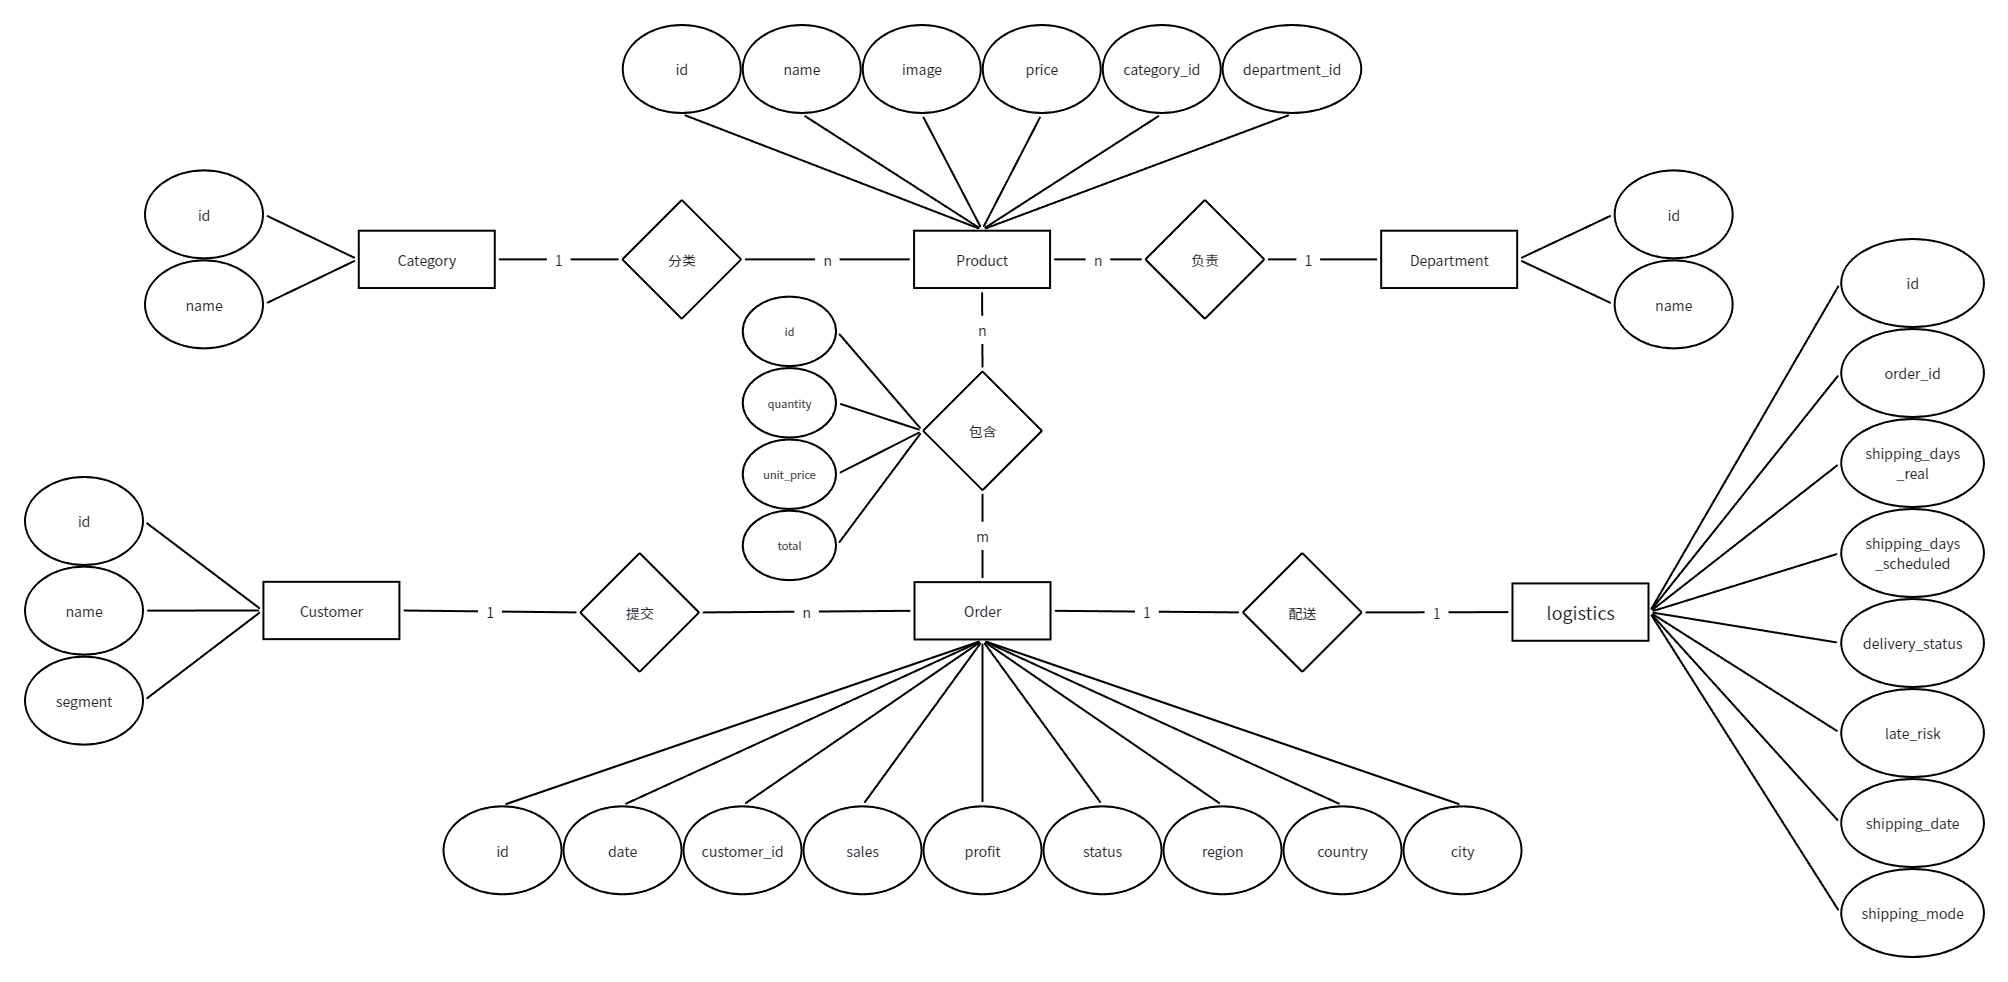
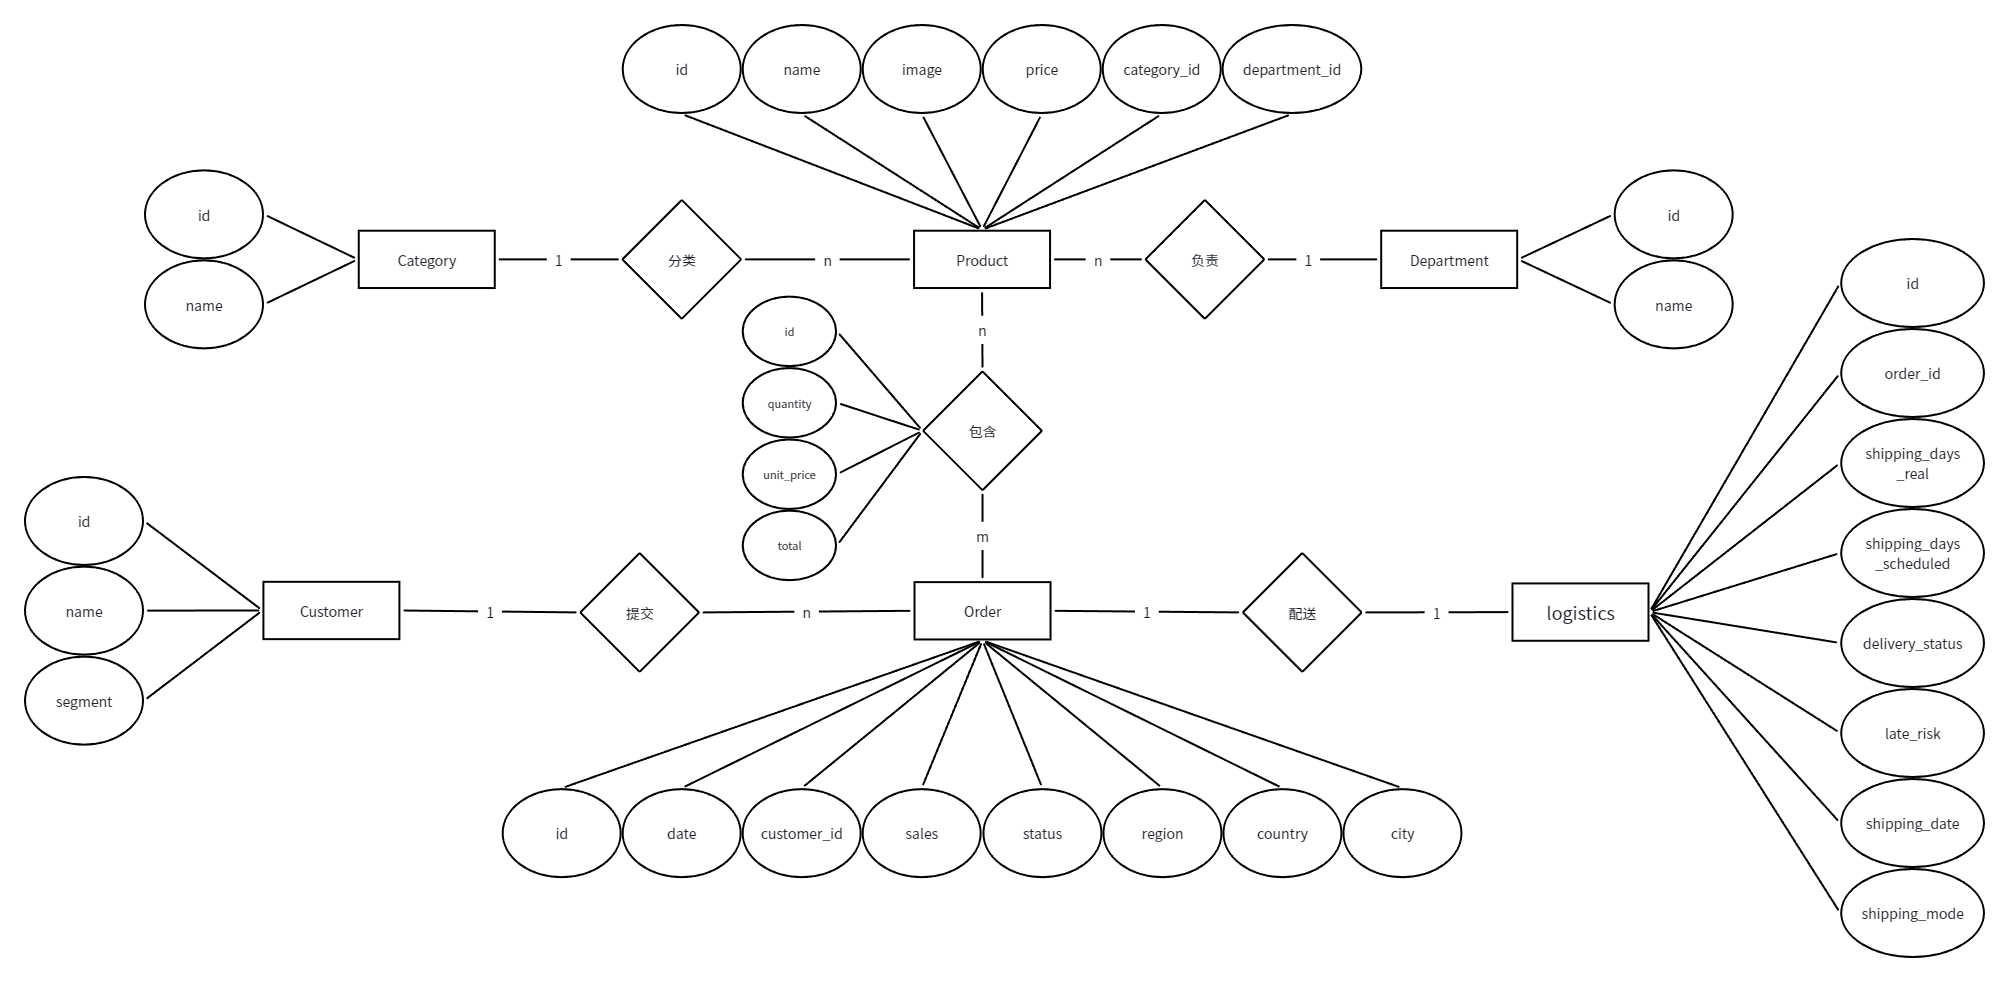
javaBackend logistics module

Changed region(s): [[0.247, 0.6415, 0.741, 0.9165]]

diff --git a/javabackend/supply_chain/src/main/java/com/supply_chain/controller/LogisticsController.java b/javabackend/supply_chain/src/main/java/com/supply_chain/controller/LogisticsController.java
@@ -4,29 +4,46 @@ import com.supply_chain.pojo.Logistics;
 import com.supply_chain.pojo.PageBean;
 import com.supply_chain.pojo.Result;
 import com.supply_chain.service.LogisticsService;
-import org.springframework.beans.factory.annotation.Autowired;
+import lombok.RequiredArgsConstructor;
 import org.springframework.web.bind.annotation.*;
 
 import java.time.LocalDate;
 
 @RestController
 @RequestMapping("/api/logistics")
+@RequiredArgsConstructor
 public class LogisticsController {
-    @Autowired
-    private LogisticsService logisticsService;
+    private final LogisticsService logisticsService;
+
     @GetMapping
-    Result getLogistics(@RequestParam(defaultValue = "1")Integer page, @RequestParam(defaultValue = "10")Integer pageSize, Integer daysRealMin, Integer daysRealMax, Integer daysScheduledMin, Integer daysScheduledMax, String deliveryStatus, Short lateRisk, LocalDate shippingDateBegin, LocalDate shippingDateEnd, String shippingMode, Integer orderId){
-        PageBean pageBean = logisticsService.getLogistics(page, pageSize, daysRealMin, daysRealMax, daysScheduledMin, daysScheduledMax, deliveryStatus, lateRisk, shippingDateBegin, shippingDateEnd, shippingMode, orderId);
+    Result getLogistics(
+            @RequestParam(defaultValue = "1") Integer page, @RequestParam(defaultValue = "10") Integer pageSize,
+            Integer daysRealMin, Integer daysRealMax, Integer daysScheduledMin, Integer daysScheduledMax,
+            String deliveryStatus, Short lateRisk, LocalDate shippingDateBegin, LocalDate shippingDateEnd,
+            String shippingMode, Integer orderId
+    ) {
+        PageBean pageBean = logisticsService.getLogistics(
+                page, pageSize, daysRealMin, daysRealMax, daysScheduledMin, daysScheduledMax, deliveryStatus, lateRisk,
+                shippingDateBegin, shippingDateEnd, shippingMode, orderId
+        );
         return Result.success(pageBean);
     }
+
     @GetMapping("/{id}")
-    Result getByOrderId(@PathVariable Integer id){
+    Result getByOrderId(@PathVariable Integer id) {
         Logistics logistics = logisticsService.getByOrderId(id);
         return Result.success(logistics);
     }
+
     @DeleteMapping("/{ids}")
-    Result delByOrder(@PathVariable Integer[] ids){
+    Result delByOrder(@PathVariable Integer[] ids) {
         logisticsService.delByOrderId(ids);
+        return Result.success();
+    }
+
+    @PutMapping
+    Result update(@RequestBody Logistics logistics) {
+        logisticsService.update(logistics);
         return Result.success();
     }
 }

diff --git a/javabackend/supply_chain/src/main/java/com/supply_chain/service/imp/LogisticsServiceImp.java b/javabackend/supply_chain/src/main/java/com/supply_chain/service/imp/LogisticsServiceImp.java
@@ -6,21 +6,28 @@ import com.supply_chain.mapper.LogisticsMapper;
 import com.supply_chain.pojo.Logistics;
 import com.supply_chain.pojo.PageBean;
 import com.supply_chain.service.LogisticsService;
-import org.springframework.beans.factory.annotation.Autowired;
+import lombok.RequiredArgsConstructor;
 import org.springframework.stereotype.Service;
 
 import java.time.LocalDate;
 import java.util.List;
 
 @Service
+@RequiredArgsConstructor
 public class LogisticsServiceImp implements LogisticsService {
-    @Autowired
-    private LogisticsMapper logisticsMapper;
+    private final LogisticsMapper logisticsMapper;
 
     @Override
-    public PageBean getLogistics(Integer page, Integer pageSize, Integer daysRealMin, Integer daysRealMax, Integer daysScheduledMin, Integer daysScheduledMax, String deliveryStatus, Short lateRisk, LocalDate shippingDateBegin, LocalDate shippingDateEnd, String shippingMode, Integer orderId) {
+    public PageBean getLogistics(
+            Integer page, Integer pageSize, Integer daysRealMin, Integer daysRealMax, Integer daysScheduledMin,
+            Integer daysScheduledMax, String deliveryStatus, Short lateRisk, LocalDate shippingDateBegin,
+            LocalDate shippingDateEnd, String shippingMode, Integer orderId
+    ) {
         PageHelper.startPage(page, pageSize);
-        List<Logistics> list = logisticsMapper.getLogistics(daysRealMin, daysRealMax, daysScheduledMin, daysScheduledMax, deliveryStatus, lateRisk, shippingDateBegin, shippingDateEnd, shippingMode, orderId);
+        List<Logistics> list = logisticsMapper.getLogistics(
+                daysRealMin, daysRealMax, daysScheduledMin, daysScheduledMax, deliveryStatus, lateRisk,
+                shippingDateBegin, shippingDateEnd, shippingMode, orderId
+        );
         PageInfo<Logistics> p = new PageInfo<>(list);
         return new PageBean(p.getTotal(), p.getList());
     }
@@ -33,5 +40,10 @@ public class LogisticsServiceImp implements LogisticsService {
     @Override
     public void delByOrderId(Integer[] ids) {
         logisticsMapper.delByOrderId(ids);
+    }
+
+    @Override
+    public void update(Logistics logistics) {
+        logisticsMapper.update(logistics);
     }
 }

diff --git a/javabackend/supply_chain/src/main/java/com/supply_chain/service/LogisticsService.java b/javabackend/supply_chain/src/main/java/com/supply_chain/service/LogisticsService.java
@@ -6,11 +6,17 @@ import com.supply_chain.pojo.PageBean;
 import java.time.LocalDate;
 
 public interface LogisticsService {
-    PageBean getLogistics(Integer page,Integer pageSize, Integer daysRealMin, Integer daysRealMax,
-                          Integer daysScheduledMin, Integer daysScheduledMax,
-                          String deliveryStatus, Short lateRisk,
-                          LocalDate shippingDateBegin, LocalDate shippingDateEnd,
-                          String shippingMode, Integer orderId);
+    PageBean getLogistics(
+            Integer page, Integer pageSize, Integer daysRealMin, Integer daysRealMax,
+            Integer daysScheduledMin, Integer daysScheduledMax,
+            String deliveryStatus, Short lateRisk,
+            LocalDate shippingDateBegin, LocalDate shippingDateEnd,
+            String shippingMode, Integer orderId
+    );
+
     Logistics getByOrderId(Integer orderId);
+
     void delByOrderId(Integer[] ids);
+
+    void update(Logistics logistics);
 }

diff --git a/javabackend/supply_chain/src/main/java/com/supply_chain/service/imp/CustomerServiceImp.java b/javabackend/supply_chain/src/main/java/com/supply_chain/service/imp/CustomerServiceImp.java
@@ -7,17 +7,16 @@ import com.supply_chain.pojo.Customer;
 import com.supply_chain.pojo.PageBean;
 import com.supply_chain.service.CustomerService;
 import com.supply_chain.service.OrderService;
-import org.springframework.beans.factory.annotation.Autowired;
+import lombok.RequiredArgsConstructor;
 import org.springframework.stereotype.Service;
 
 import java.util.List;
 
 @Service
+@RequiredArgsConstructor
 public class CustomerServiceImp implements CustomerService {
-    @Autowired
-    private CustomerMapper customerMapper;
-    @Autowired
-    private OrderService orderService;
+    private final CustomerMapper customerMapper;
+    private final OrderService orderService;
 
     @Override
     public Customer selectById(Integer id) {
@@ -39,7 +38,7 @@ public class CustomerServiceImp implements CustomerService {
     }
 
     @Override
-    public Integer update(Customer customer) {
-        return customerMapper.update(customer);
+    public void update(Customer customer) {
+        customerMapper.update(customer);
     }
 }

diff --git a/javabackend/supply_chain/src/main/java/com/supply_chain/mapper/LogisticsMapper.java b/javabackend/supply_chain/src/main/java/com/supply_chain/mapper/LogisticsMapper.java
@@ -3,6 +3,7 @@ package com.supply_chain.mapper;
 import com.supply_chain.pojo.Logistics;
 import org.apache.ibatis.annotations.Mapper;
 import org.apache.ibatis.annotations.Select;
+import org.apache.ibatis.annotations.Update;
 
 import java.time.LocalDate;
 import java.util.List;
@@ -18,4 +19,15 @@ public interface LogisticsMapper {
     Logistics getByOrderId(Integer orderId);
 
     void delByOrderId(Integer[] ids);
+
+    @Update("""
+            update logistics
+            set shipping_days_real     = #{shippingDaysReal},
+                shipping_days_scheduled=#{shippingDaysScheduled},
+                shipping_date=#{shippingDate},
+                late_risk=#{lateRisk},
+                delivery_status=#{deliveryStatus},
+                shipping_mode=#{shippingMode}
+            where id=#{id};""")
+    void update(Logistics logistics);
 }

diff --git a/javabackend/supply_chain/src/main/java/com/supply_chain/service/imp/OrderServiceImp.java b/javabackend/supply_chain/src/main/java/com/supply_chain/service/imp/OrderServiceImp.java
@@ -43,23 +43,23 @@ public class OrderServiceImp implements OrderService {
     }
 
     @Override
-    public Integer deleteByCustomerId(Integer[] ids) {
+    public void deleteByCustomerId(Integer[] ids) {
         Integer[] orderId = getIdByCustomerId(ids);
         orderItemsService.delByOrderId(orderId);
         logisticsService.delByOrderId(orderId);
-        return orderMapper.deleteByCustomerId(ids);
+        orderMapper.deleteByCustomerId(ids);
     }
 
     @Override
-    public Integer deleteByOrderId(Integer[] ids) {
+    public void deleteByOrderId(Integer[] ids) {
         orderItemsService.delByOrderId(ids);
         logisticsService.delByOrderId(ids);
-        return orderMapper.deleteByOrderId(ids);
+        orderMapper.deleteByOrderId(ids);
     }
 
     @Override
-    public Integer update(Order order) {
-        return orderMapper.update(order);
+    public void update(Order order) {
+        orderMapper.update(order);
     }
 
     @Override

diff --git a/javabackend/supply_chain/src/main/java/com/supply_chain/service/imp/OrderItemsServiceImp.java b/javabackend/supply_chain/src/main/java/com/supply_chain/service/imp/OrderItemsServiceImp.java
@@ -2,15 +2,16 @@ package com.supply_chain.service.imp;
 
 import com.supply_chain.mapper.OrderItemsMapper;
 import com.supply_chain.service.OrderItemsService;
-import org.springframework.beans.factory.annotation.Autowired;
+import lombok.RequiredArgsConstructor;
 import org.springframework.stereotype.Service;
 
 @Service
+@RequiredArgsConstructor
 public class OrderItemsServiceImp implements OrderItemsService {
-    @Autowired
-    private OrderItemsMapper orderItemsMapper;
+
+    private final OrderItemsMapper orderItemsMapper;
     @Override
-    public Integer delByOrderId(Integer[] ids) {
-        return orderItemsMapper.delByOrderId(ids);
+    public void delByOrderId(Integer[] ids) {
+        orderItemsMapper.delByOrderId(ids);
     }
 }

diff --git a/javabackend/supply_chain/src/main/java/com/supply_chain/controller/CustomerController.java b/javabackend/supply_chain/src/main/java/com/supply_chain/controller/CustomerController.java
@@ -4,15 +4,15 @@ import com.supply_chain.pojo.Customer;
 import com.supply_chain.pojo.PageBean;
 import com.supply_chain.pojo.Result;
 import com.supply_chain.service.CustomerService;
-import org.springframework.beans.factory.annotation.Autowired;
+import lombok.RequiredArgsConstructor;
 import org.springframework.web.bind.annotation.*;
 
 
 @RestController
 @RequestMapping("/api/customer")
+@RequiredArgsConstructor
 public class CustomerController {
-    @Autowired
-    private CustomerService customerService;
+    private final CustomerService customerService;
 
     @GetMapping
     Result page(
@@ -20,7 +20,7 @@ public class CustomerController {
             @RequestParam(defaultValue = "10") Integer pageSize,
             String name,
             String segment
-               ) {
+    ) {
         PageBean pageBean = customerService.page(page, pageSize, name, segment);
         return Result.success(pageBean);
     }

diff --git a/javabackend/supply_chain/src/main/java/com/supply_chain/mapper/OrderMapper.java b/javabackend/supply_chain/src/main/java/com/supply_chain/mapper/OrderMapper.java
@@ -13,19 +13,19 @@ public interface OrderMapper {
     @Select("select * from `order` where id=#{id}")
     Order getOrderById(Integer id);
 
-    List<Order> getOrdersAndItems();
+    //List<Order> getOrdersAndItems();
 
     List<Order> getOrders(
             LocalDate start, LocalDate end, Integer customerId, Float salesMin, Float salesMax, String status,
             String region, String country, String city
                          );
 
-    Integer deleteByCustomerId(Integer[] ids);
+    void deleteByCustomerId(Integer[] ids);
 
     @Update("update `order` set date = #{date},sales=#{sales},status=#{status}," +
             "region=#{region},country=#{country},city=#{city} where id = #{id};")
-    Integer update(Order order);
-    Integer deleteByOrderId(Integer[] id);
+    void update(Order order);
+    void deleteByOrderId(Integer[] id);
 
     Integer[] getIdByCustomerId(Integer[] ids);
 }

diff --git a/javabackend/supply_chain/src/main/java/com/supply_chain/controller/OrderController.java b/javabackend/supply_chain/src/main/java/com/supply_chain/controller/OrderController.java
@@ -4,16 +4,16 @@ import com.supply_chain.pojo.Order;
 import com.supply_chain.pojo.PageBean;
 import com.supply_chain.pojo.Result;
 import com.supply_chain.service.OrderService;
-import org.springframework.beans.factory.annotation.Autowired;
+import lombok.RequiredArgsConstructor;
 import org.springframework.web.bind.annotation.*;
 
 import java.time.LocalDate;
 
 @RestController
 @RequestMapping("/api/order")
+@RequiredArgsConstructor
 public class OrderController {
-    @Autowired
-    private OrderService orderService;
+    private final OrderService orderService;
 
     @GetMapping("/{id}")
     public Result getOrderById(@PathVariable Integer id) {

diff --git a/javabackend/supply_chain/src/main/java/com/supply_chain/controller/OrderItemsController.java b/javabackend/supply_chain/src/main/java/com/supply_chain/controller/OrderItemsController.java
@@ -2,7 +2,7 @@ package com.supply_chain.controller;
 
 import com.supply_chain.pojo.Result;
 import com.supply_chain.service.OrderItemsService;
-import org.springframework.beans.factory.annotation.Autowired;
+import lombok.RequiredArgsConstructor;
 import org.springframework.web.bind.annotation.DeleteMapping;
 import org.springframework.web.bind.annotation.PathVariable;
 import org.springframework.web.bind.annotation.RequestMapping;
@@ -10,9 +10,9 @@ import org.springframework.web.bind.annotation.RestController;
 
 @RestController
 @RequestMapping("/api/orderItems")
+@RequiredArgsConstructor
 public class OrderItemsController {
-    @Autowired
-    private OrderItemsService orderItemsService;
+    private final OrderItemsService orderItemsService;
 
     @DeleteMapping("/{ids}")
     Result delByOrderId(@PathVariable Integer[] ids) {

diff --git a/javabackend/supply_chain/src/main/java/com/supply_chain/service/OrderService.java b/javabackend/supply_chain/src/main/java/com/supply_chain/service/OrderService.java
@@ -11,8 +11,8 @@ public interface OrderService {
             Integer page,Integer pageSize,LocalDate start, LocalDate end, Integer customerId, Float salesMin, Float salesMax, String status,
             String region, String country, String city
                       );
-    Integer deleteByCustomerId(Integer[] ids);
-    Integer deleteByOrderId(Integer[] ids);
-    Integer update(Order order);
+    void deleteByCustomerId(Integer[] ids);
+    void deleteByOrderId(Integer[] ids);
+    void update(Order order);
     Integer[] getIdByCustomerId(Integer[] ids);
 }